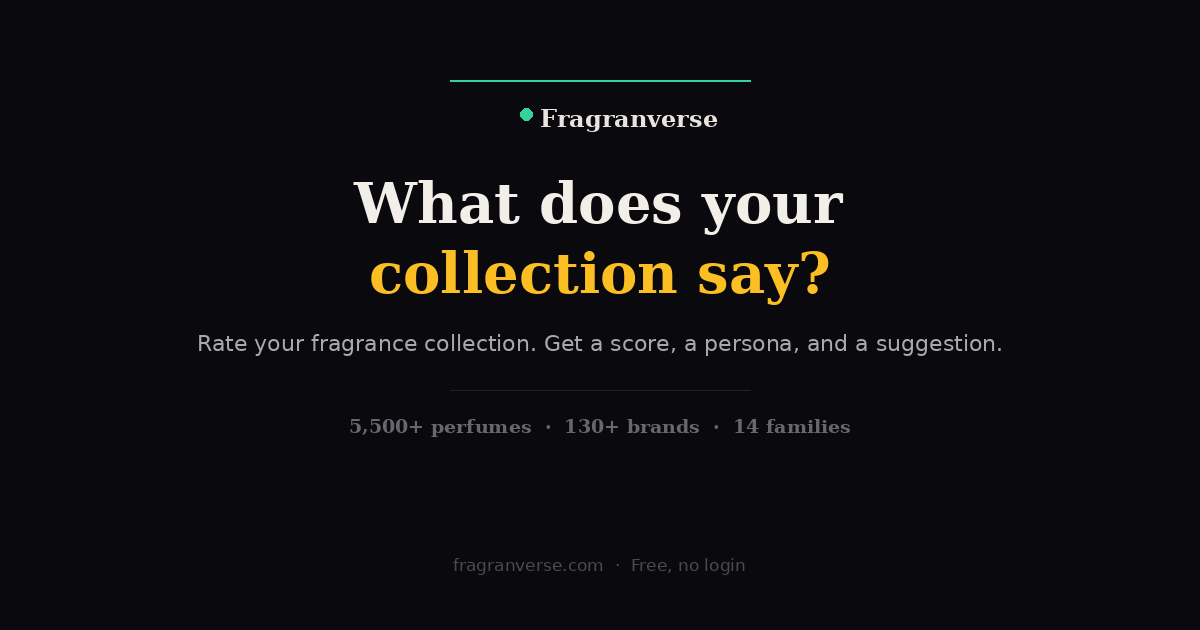
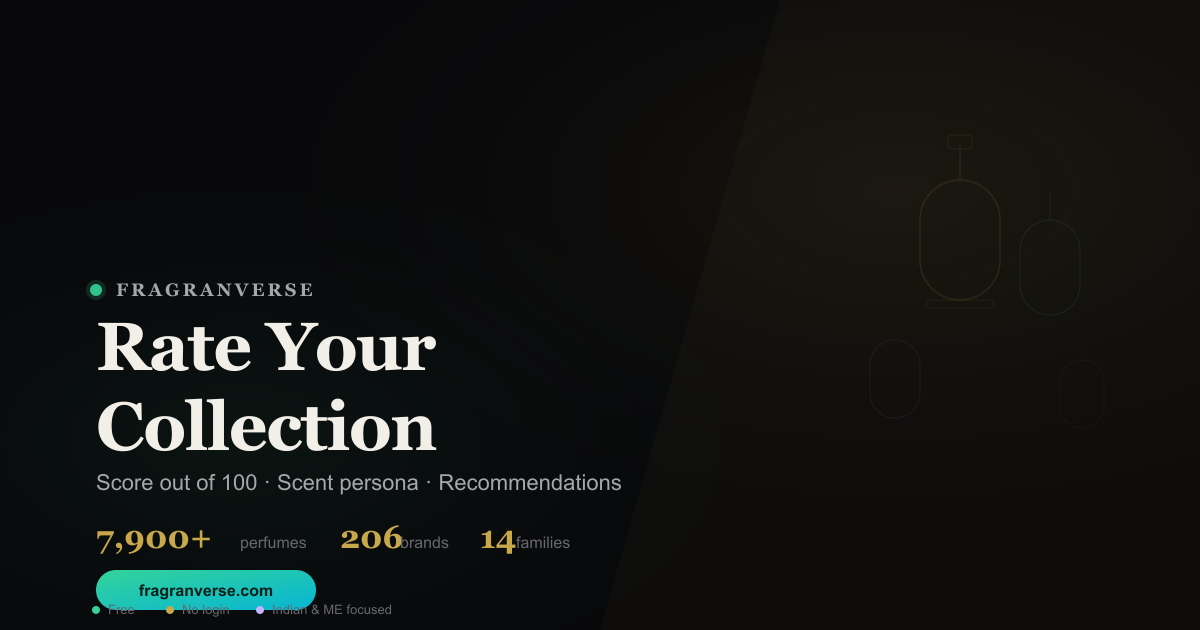
Add files via upload

diff --git a/index.html b/index.html
@@ -29,6 +29,9 @@
 
 <!-- Theme color for mobile browsers -->
 <meta name="theme-color" content="#08080a" />
+<meta name="apple-mobile-web-app-capable" content="yes" />
+<meta name="apple-mobile-web-app-status-bar-style" content="black-translucent" />
+<meta name="apple-mobile-web-app-title" content="FragranVerse" />
 <meta name="google-site-verification" content="jxv3-2mg2G1UhRv_OlPdq2tPdgjCZioLx15l_A_I_E8" />
 <link rel="preconnect" href="https://fonts.googleapis.com"><link rel="preconnect" href="https://fonts.gstatic.com" crossorigin>
 <link href="https://fonts.googleapis.com/css2?family=Playfair+Display:ital,wght@0,400;0,500;0,600;0,700;1,400;1,500;1,600&family=Inter:wght@400;500;600;700&family=Permanent+Marker&display=swap" rel="stylesheet">
@@ -39,8 +42,8 @@
     --ink:#f2efe9; --ink-2:#a6a6ad; --ink-3:#67676e;
     --green:#34d399; --cyan:#06b6d4; --amber:#fbbf24; --amber-2:#d97706; --violet:#c4b5fd; --rose:#fb7185;
   }
-  *{box-sizing:border-box;margin:0;padding:0}
-  html{-webkit-font-smoothing:antialiased}
+  *{box-sizing:border-box;margin:0;padding:0;-webkit-tap-highlight-color:transparent}
+  html{-webkit-font-smoothing:antialiased;-webkit-text-size-adjust:100%}
   body{background:var(--bg);color:var(--ink);font-family:Inter,system-ui,sans-serif;line-height:1.5;overflow-x:hidden}
   .wrap{max-width:660px;margin:0 auto;padding:0 20px}
   .display{font-family:'Playfair Display',Georgia,serif}
@@ -331,7 +334,8 @@
   .toast{position:fixed;bottom:24px;left:50%;transform:translateX(-50%) translateY(20px);background:var(--bg-card);border:1px solid var(--line);padding:14px 22px;border-radius:14px;font-size:14px;opacity:0;transition:.3s;pointer-events:none;z-index:60;box-shadow:0 14px 50px rgba(0,0,0,.6)}
   .toast.show{opacity:1;transform:translateX(-50%) translateY(0)}.toast b{color:var(--green)}
   .empty{text-align:center;color:var(--ink-3);font-size:14px;padding:30px 0;line-height:1.6}
-  @media(max-width:520px){.score{font-size:90px}header{padding:58px 0 26px}}
+  @media(max-width:520px){.score{font-size:90px}header{padding:58px 0 26px}.persona{font-size:24px}.tabs button{min-height:44px}.ctab{min-height:44px}.itab{min-height:44px}.navlinks button{min-height:44px}.opt{min-height:52px}.chip{min-height:40px}}
+  @media(max-width:375px){.score{font-size:72px}.persona{font-size:20px}header h1{font-size:36px}.wit-card{padding:16px}.card{padding:16px}.badge{padding:36px 16px 28px}.rec{padding:12px;gap:10px}.match-pct{font-size:18px;width:48px}.ctab{font-size:12px;padding:8px 8px;gap:4px}.ctab svg{width:14px;height:14px}.itab{font-size:12px;padding:9px 10px}}
   @media(prefers-reduced-motion:reduce){*{animation:none!important;transition:none!important}}
 </style>
 <script type="application/ld+json">